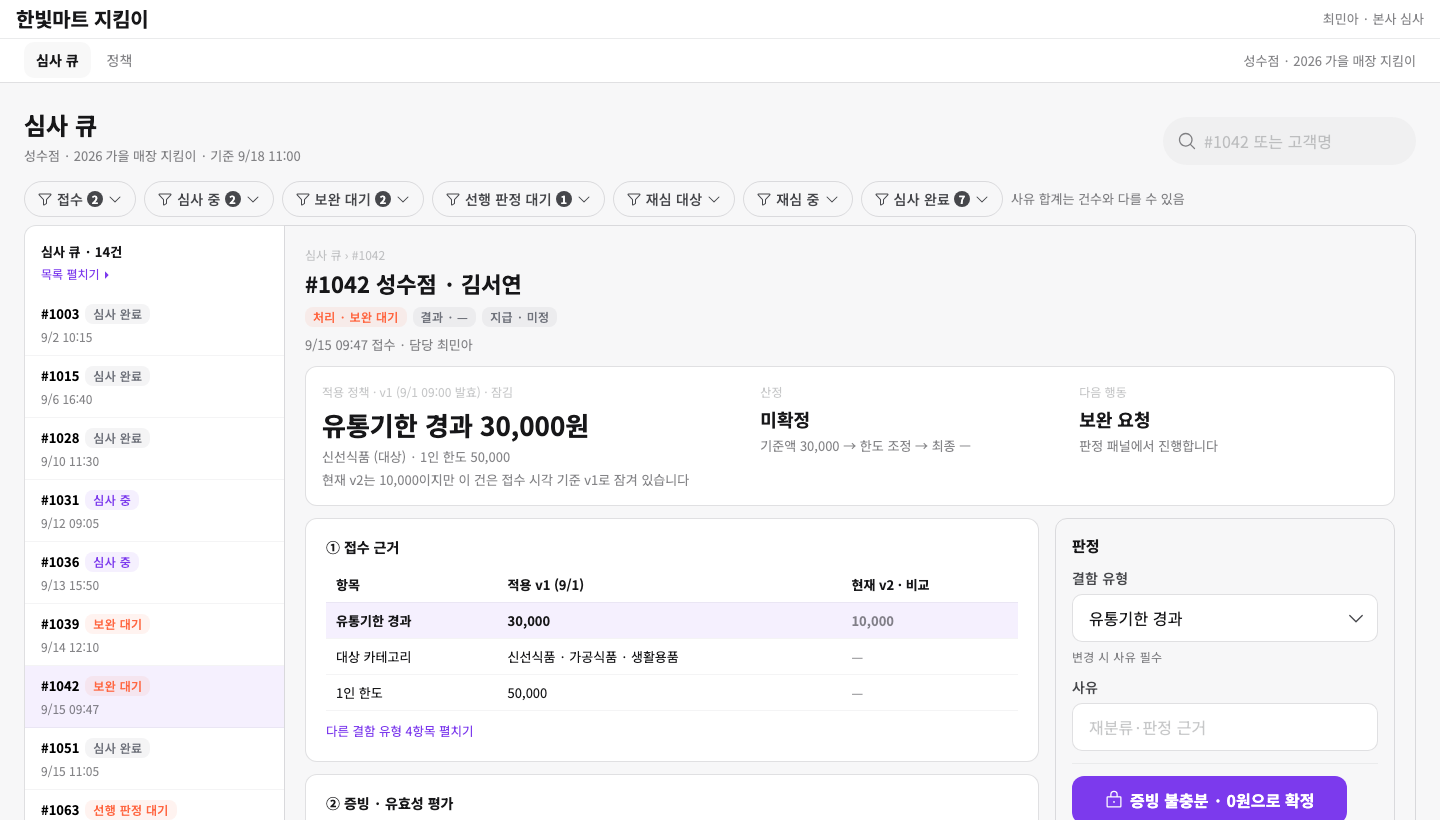
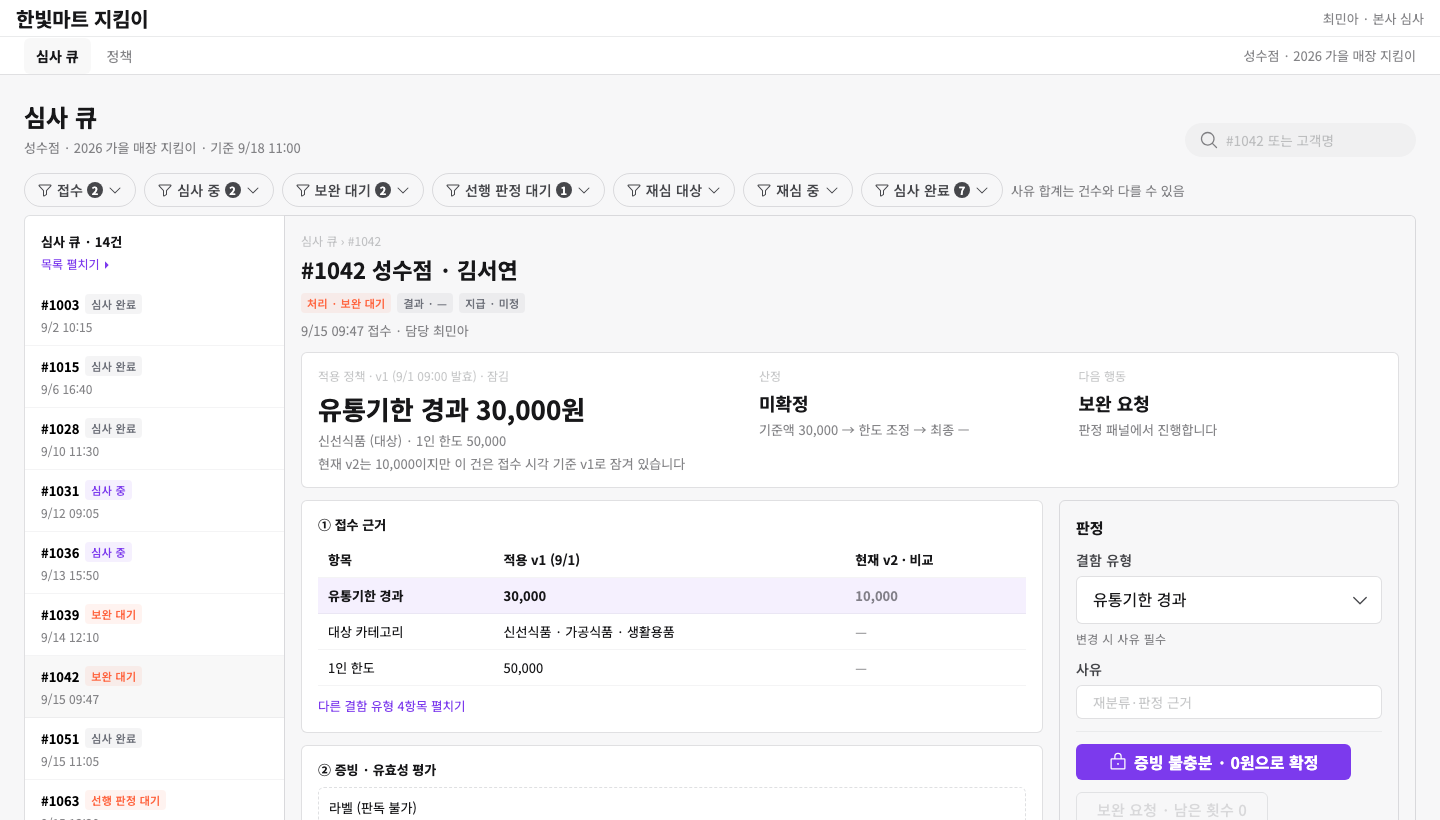
feat(app): 아이리스 위에 어드민 밀도층
시스템을 바꾸지 않고 이 제품에서만 값을 조인다. 표 행 48→38, 머리
40→34, 셀 15→13, 모서리 8·12→4·6, 배지 12→11, 셸 64+40→52+38.

의미를 지닌 색은 그대로 둔다. 세 축 배지의 톤은 유지하고, 선택 행의
강조 틴트만 중립 회색으로 바꿔 보라가 화면에 넓게 깔리지 않게 했다.
보라는 주 버튼과 링크에만 남는다.

디자인 부록에 기본값과 조정값을 표로 남겼다.

diff --git a/app/src/app.css b/app/src/app.css
@@ -182,3 +182,35 @@ table.basis tr.emph td { background: var(--iris-semantic-background-status-info)
 
 /* 큐 정책 열 한 줄로 */
 .pol { display: inline-flex; flex-direction: row; align-items: center; gap: 6px; }
+
+/* ══ 어드민 밀도층 ══════════════════════════════════════════════
+   아이리스는 소비자 제품용 비례로 만들어져 있다(표 행 48 · 셀 15px ·
+   최소 모서리 8). 하루 수십 건을 훑고 판정하는 화면에는 성기다.
+   시스템을 바꾸지 않고 이 제품에서만 값을 조인다. 의미를 지닌 색
+   (3축 배지 톤)은 건드리지 않는다.                                */
+.app-shell {
+  --iris-radius-xs: 4px;
+  --iris-radius-sm: 6px;
+  --iris-radius-md: 6px;
+  --iris-radius-lg: 8px;
+}
+/* 표 — 행 48→38, 머리 40→34, 셀 15→13 */
+.app-shell [class*="iris-td-"] { height: 38px; padding: 0 12px; font-size: 13px; }
+.app-shell [class*="iris-th-"] { height: 34px; padding: 0 12px; font-size: 11.5px; }
+/* 배지 — 톤은 그대로, 크기만 압축 */
+.app-shell [class*="iris-badge-"] { font-size: 11px; padding: 1px 6px; border-radius: 4px; }
+/* 버튼·입력 — 높이 한 단계 */
+.app-shell [class*="iris-button-"] { height: 34px; }
+.app-shell .panel [class*="iris-button-"] { height: 36px; }
+.app-shell [class*="iris-input-"] { --iris-input-height: 34px; font-size: 13.5px; }
+/* 셸 — 상단 두 줄을 조인다 */
+.app-shell .shell > [class*="iris-top"] { height: 52px; }
+.app-shell .tabs { height: 38px; }
+/* 절 카드 여백 */
+.app-shell .rail { padding: 14px 16px 16px; }
+.app-shell .rail-label { font-size: 13px; margin-bottom: 8px; }
+.app-shell .summary { padding: 14px 16px; gap: 16px; }
+.app-shell .preview, .app-shell .list.full { padding: 16px; }
+/* 선택 행 틴트를 중립으로 — 보라가 화면에 넓게 깔리지 않게 */
+.app-shell .list tbody tr:has(.row-id.on),
+.app-shell .queue-rail-row.on { background: var(--iris-semantic-fill-alternative); }

diff --git a/docs/appendix/design-system.md b/docs/appendix/design-system.md
@@ -30,6 +30,24 @@
 
 > Figma 파일에는 별도 상세 화면으로 여는 초기 배치도 함께 남아 있습니다. 세 배치를 재서 고른 과정은 [05 화면 결정](../05-screens.md)에 있습니다.
 
+## 어드민 밀도층
+
+Iris는 소비자 제품용 비례로 만들어져 있습니다. 표 행 48, 셀 글자 15, 가장 작은 모서리가 8입니다. 하루 수십 건을 훑고 판정하는 화면에는 성깁니다. 시스템을 바꾸는 대신 이 제품에서만 값을 조였습니다.
+
+| 값 | Iris 기본 | 이 제품 |
+|---|---|---|
+| 표 행 높이 | 48 | 38 |
+| 표 머리 행 | 40 | 34 |
+| 셀 글자 | 15 | 13 |
+| 모서리 | 8 · 12 | 4 · 6 |
+| 배지 | 12px, 알약 | 11px, 모서리 4 |
+| 버튼 높이 | 36 | 34 (판정 패널만 36) |
+| 셸 | 64 + 40 | 52 + 38 |
+
+**의미를 지닌 색은 건드리지 않았습니다.** 세 축 배지의 톤은 그대로입니다. 대신 선택된 행의 강조 틴트를 중립 회색으로 바꿔 보라가 화면에 넓게 깔리지 않게 했습니다. 보라는 주 버튼과 링크에만 남습니다.
+
+이 층은 토큰 위에 덮는 재정의라 Iris 자체는 그대로입니다. 다른 제품에서 같은 시스템을 쓸 때 영향을 주지 않습니다.
+
 ## 타이포그래피
 
 본문과 숫자 모두 Noto Sans KR입니다. **등폭 서체를 쓰지 않았습니다.** Iris에 등폭이 없어서, 숫자 정렬은 열 폭을 고정해 맞추고 값은 중간 굵기로 구분했습니다. 시스템 일관성과 등폭 중에 일관성을 골랐습니다.
